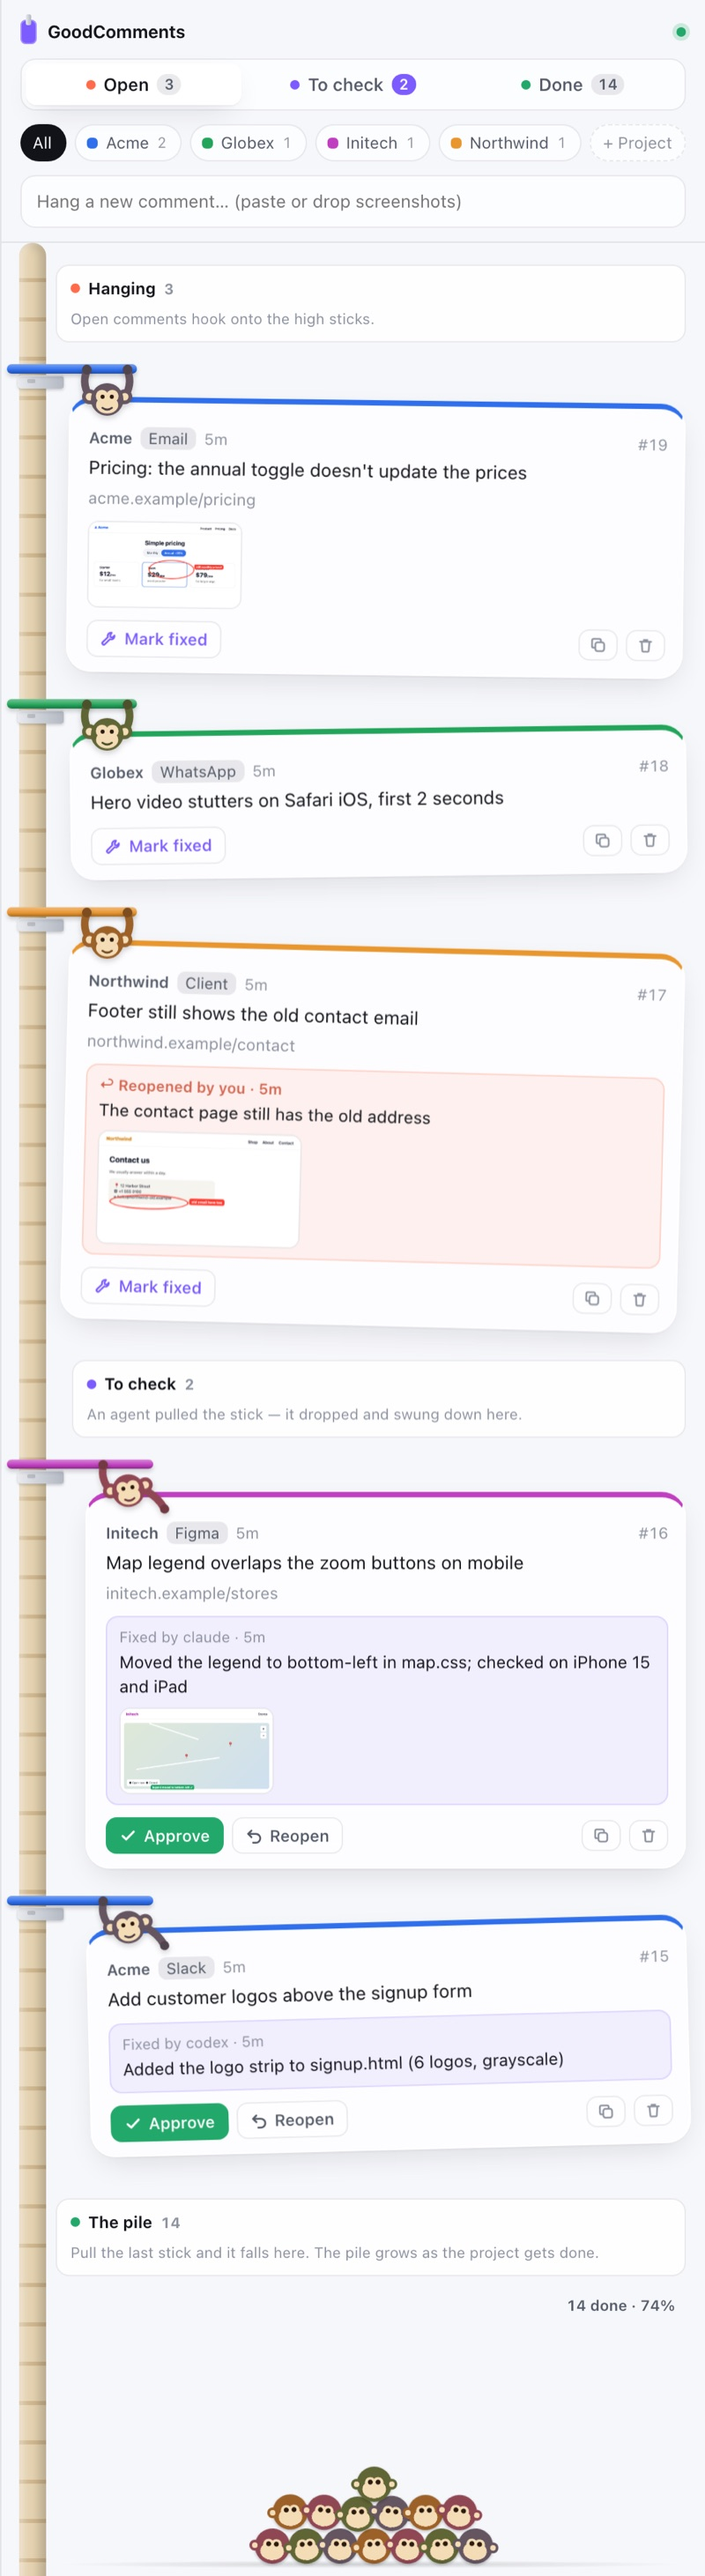
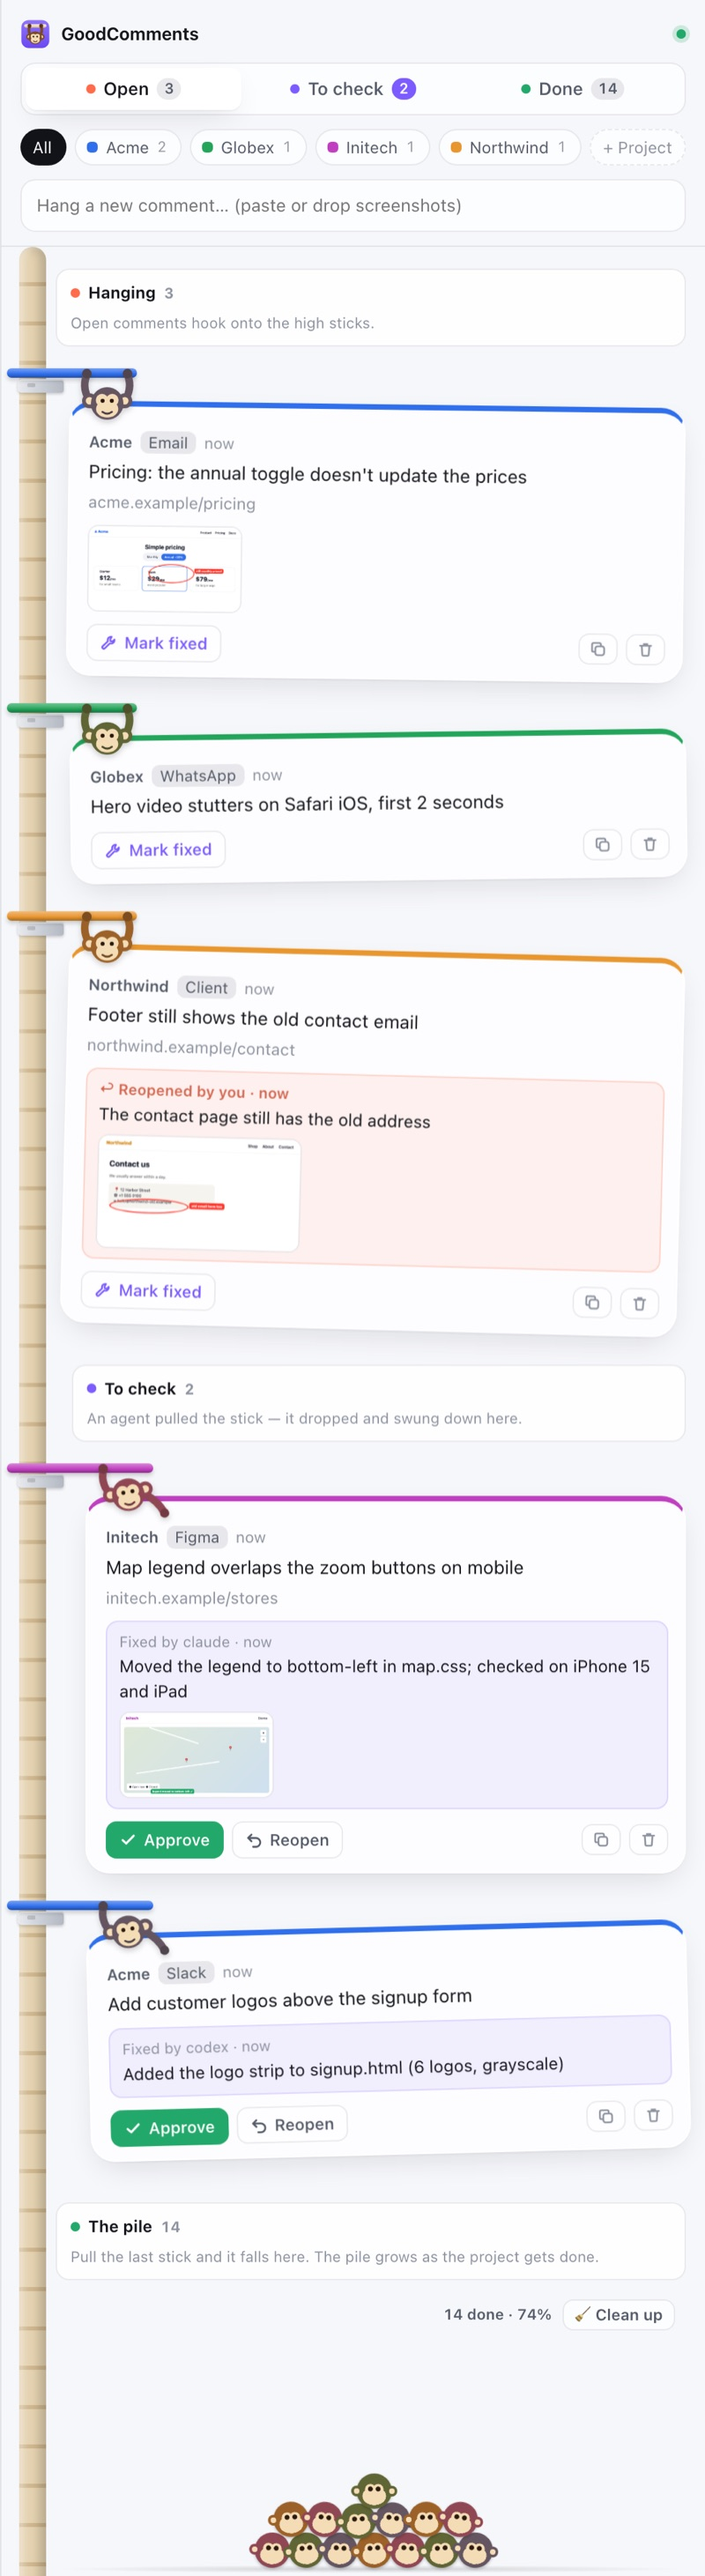
Refresh website screenshots; add business model and launch plan
- Website screenshots retaken with the monkey logo, text-named comments
  and the Clean up button (mock projects)
- BUSINESS_MODEL.md: model, audience, install friction to remove, launch
  channels, metrics; linked from the README

diff --git a/docs/index.html b/docs/index.html
@@ -249,14 +249,14 @@
         <img src="img/board.jpg" alt="The GoodComments column: open comments hanging from monkeys on a trunk, two fixed comments waiting to be checked, and a pile of monkey heads for the done ones" loading="lazy" width="800" height="2923">
       </a>
       <div class="shots">
-        <figure class="shot"><img src="img/card-screenshot.jpg" alt="A comment from Acme with a screenshot of the pricing page attached" loading="lazy" width="1040" height="500">
+        <figure class="shot"><img src="img/card-screenshot.jpg" alt="A comment from Acme with a screenshot of the pricing page attached" loading="lazy" width="1040" height="516">
           <figcaption><b>Screenshots on any comment.</b> Paste with ⌘V or drop images on a card. Agents get them as images too.</figcaption></figure>
-        <figure class="shot"><img src="img/to-check.jpg" alt="A fixed comment with the agent's note and an after screenshot, with Approve and Reopen buttons" loading="lazy" width="1040" height="640">
+        <figure class="shot"><img src="img/to-check.jpg" alt="A fixed comment with the agent's note and an after screenshot, with Approve and Reopen buttons" loading="lazy" width="1040" height="664">
           <figcaption><b>Fixed, with proof.</b> The agent says what changed and where, with an “after” shot. Approve in one click.</figcaption></figure>
-        <figure class="shot"><img src="img/reopened.jpg" alt="A reopened comment showing the reason and a screenshot of what is still wrong" loading="lazy" width="1040" height="660">
+        <figure class="shot"><img src="img/reopened.jpg" alt="A reopened comment showing the reason and a screenshot of what is still wrong" loading="lazy" width="1040" height="668">
           <figcaption><b>Not right yet? Reopen it.</b> Add a note and a screenshot of what's still wrong; it climbs back up the trunk.</figcaption></figure>
-        <figure class="shot"><img src="img/pile.jpg" alt="The pile of monkey heads with the count of done comments" loading="lazy" width="1040" height="420">
-          <figcaption><b>Done piles up.</b> Every approved comment drops onto the pile. Grab the monkeys and throw them around.</figcaption></figure>
+        <figure class="shot"><img src="img/pile.jpg" alt="The pile of monkey heads with the count of done comments" loading="lazy" width="1040" height="418">
+          <figcaption><b>Done piles up.</b> Every approved comment drops onto the pile. Throw the monkeys around, then 🧹 clean it up.</figcaption></figure>
         <div class="term" aria-label="Terminal output of gc show">
           <div class="bar"><i></i><i></i><i></i></div>
 <pre><span class="p">~/northwind $</span> gc show 17

diff --git a/BUSINESS_MODEL.md b/BUSINESS_MODEL.md
@@ -1,0 +1,45 @@
+# GoodComments — business model and launch plan
+
+## Model today
+- **Free and open source (MIT).** No account, no analytics; comments live on the user's Mac.
+- **Growth comes from distribution, not sales:** downloads, GitHub stars and word of mouth.
+- **Possible paid options later (ideas, not commitments):** a hosted sync/inbox for teams (the cloud mode already exists in the code: Turso + token auth), or a signed "pro" build with team features. Revisit once there are real users asking for them.
+
+## Who it's for
+Freelancers, agencies and designers who get feedback from many places (email, WhatsApp, meetings, Figma) and use AI coding agents (Claude Code, Cursor, Codex) to fix it.
+
+**The one-liner:** *your AI agents fix client feedback, and you check it off.*
+"A feedback tracker" is a crowded category; agents fixing the feedback while you approve it is not.
+
+## 1. Remove install friction first
+Today people need Node 22 and Xcode's tools and build the app themselves. Most won't.
+- [ ] **Downloadable app:** join the Apple Developer Program ($99/year) to sign and notarize, and attach a ready-made `GoodComments.dmg` to each GitHub release. Without notarization macOS warns that the app is unsafe.
+- [ ] **Homebrew:** `brew install --cask goodcomments` (start with a tap). Mac developers trust it and it handles updates.
+- [ ] **Bundle the server:** ship Node inside the app so the download is the only requirement.
+- [ ] **Turn on GitHub Pages** (Settings → Pages → `main` / `docs`) so the website is public.
+
+## 2. Make a 15–30 second video
+A client email becomes a comment → the agent fixes it → the card falls to "To check" → you approve it onto the monkey pile. Tendedero's launch post reached about a million views largely from one short clip; the falling monkeys are the shareable moment.
+
+## 3. Launch in a few places within one week
+- [ ] **X / Bluesky / LinkedIn:** the video, one line, the GitHub link. LinkedIn reaches agencies and designers.
+- [ ] **Hacker News — Show HN:** *"GoodComments – client feedback that your AI agents fix and you check off"*. Weekday morning, US time; stay to answer comments.
+- [ ] **Reddit:** r/ClaudeAI, r/macapps, r/SideProject, r/webdev. Show the workflow, don't pitch.
+- [ ] **MCP directories:** the official MCP registry, Smithery, mcp.so, and a pull request to awesome-mcp-servers. That's where people looking for agent tools search.
+- [ ] **Product Hunt:** once the downloadable app exists.
+
+## 4. Write one practical post
+"How I track client feedback with Claude Code", on a personal blog or dev.to, linking the repo.
+
+## 5. Make it easy to keep growing
+- [ ] README: the GIF first, a one-line install, then screenshots.
+- [ ] GitHub topics: `mcp`, `claude-code`, `macos`, `feedback`, `ai-agents`.
+- [ ] A few "good first issue" labels to invite contributors.
+- [ ] Watch GitHub release downloads and traffic insights (there are no analytics in the app; that's a feature to mention).
+
+## What to measure
+| Signal | Where |
+|---|---|
+| Downloads | GitHub release asset counts, Homebrew analytics |
+| Interest | GitHub stars, traffic (views, referrers) |
+| Real use | Issues and feature requests, mentions on X / Reddit / HN |

diff --git a/README.md b/README.md
@@ -81,3 +81,6 @@ CLI, MCP and the web column only talk to the HTTP API; storage is swappable in `
 3. **Clients:** `export GOODCOMMENTS_URL=https://… GOODCOMMENTS_TOKEN=…` for `gc` and the MCP server. The web column asks for the token once and remembers it.
 
 The Mac edge panel still opens the local server; point it elsewhere by editing `base` in `mac/Sources/GoodCommentsEdge/main.swift`.
+
+## Roadmap and launch
+See [BUSINESS_MODEL.md](BUSINESS_MODEL.md) for how GoodComments is meant to grow: install friction to remove, launch channels and what to measure.
